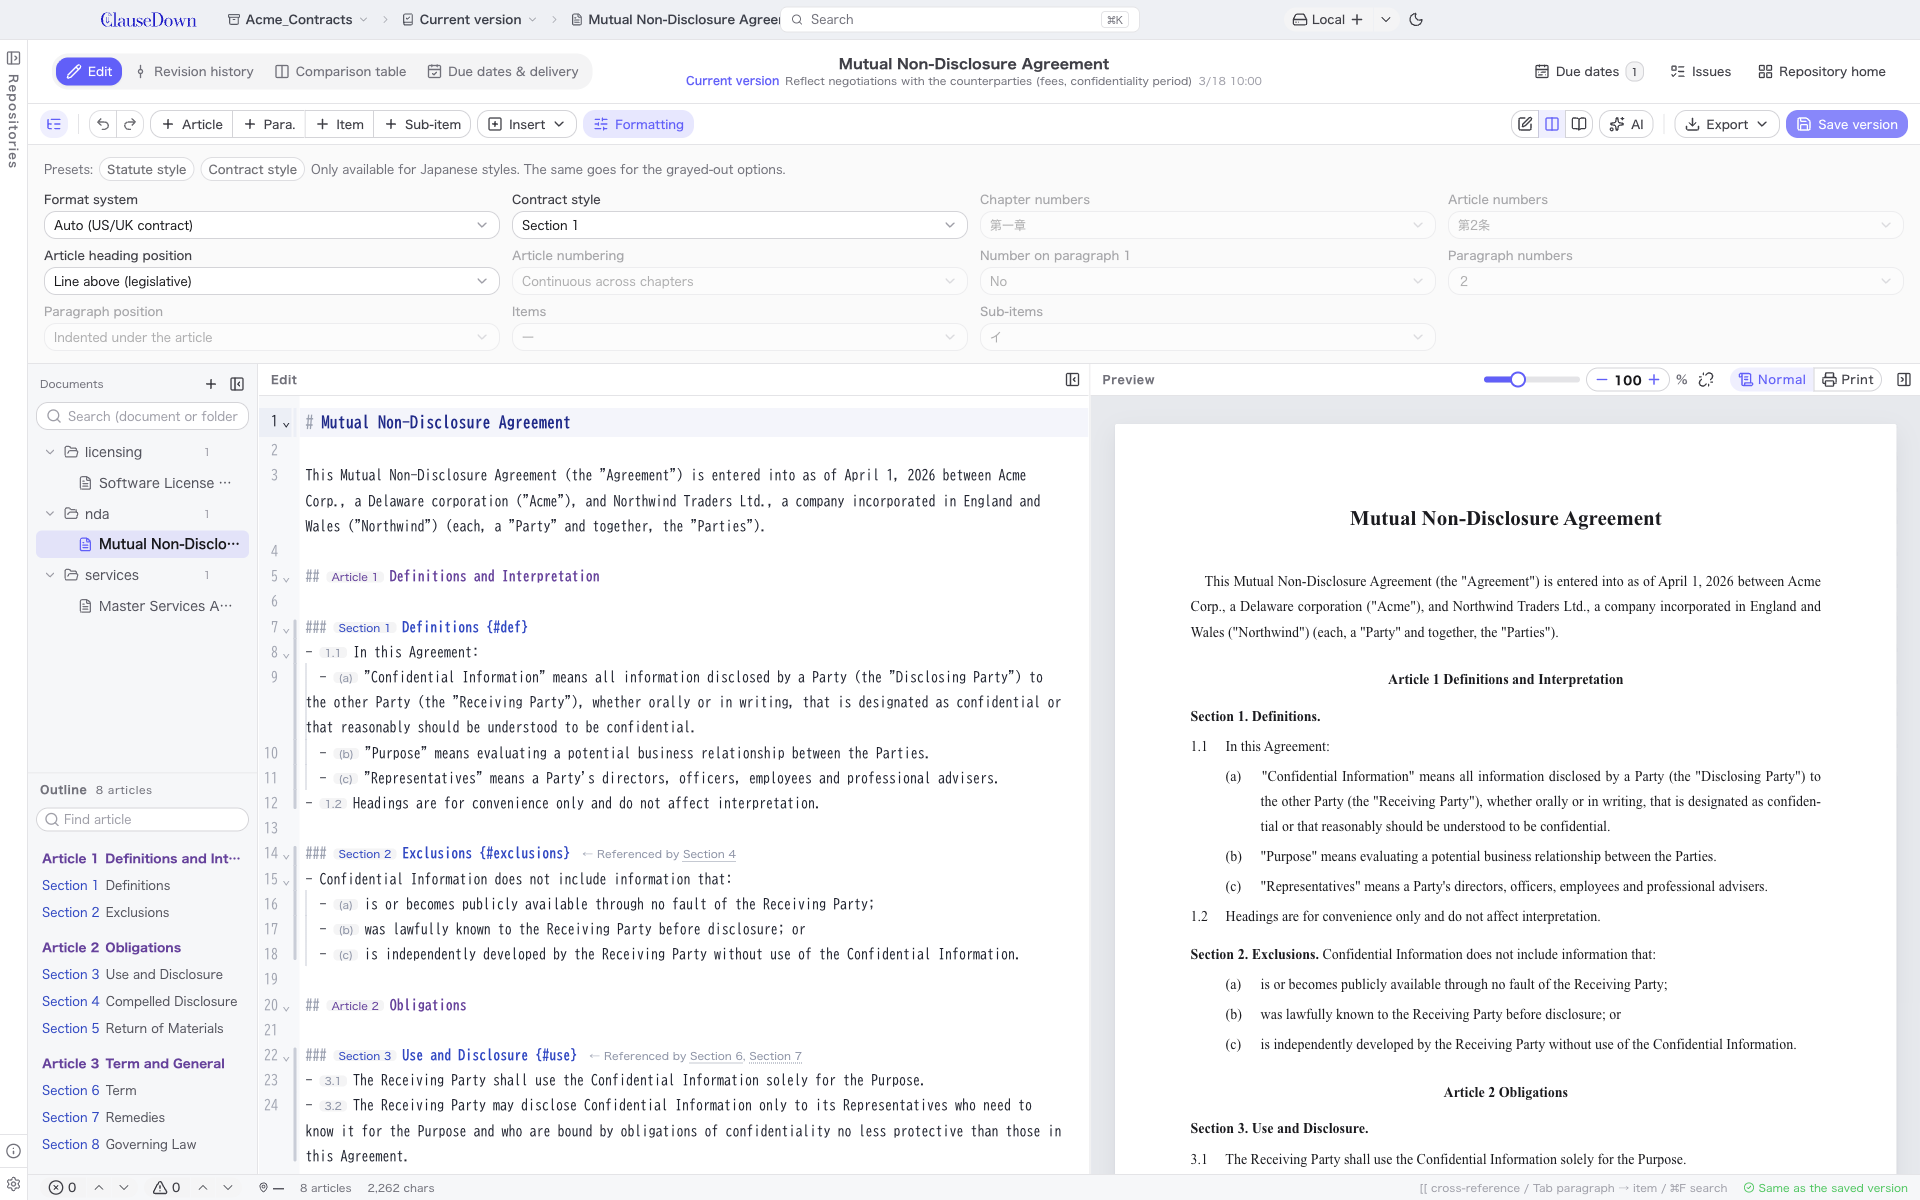
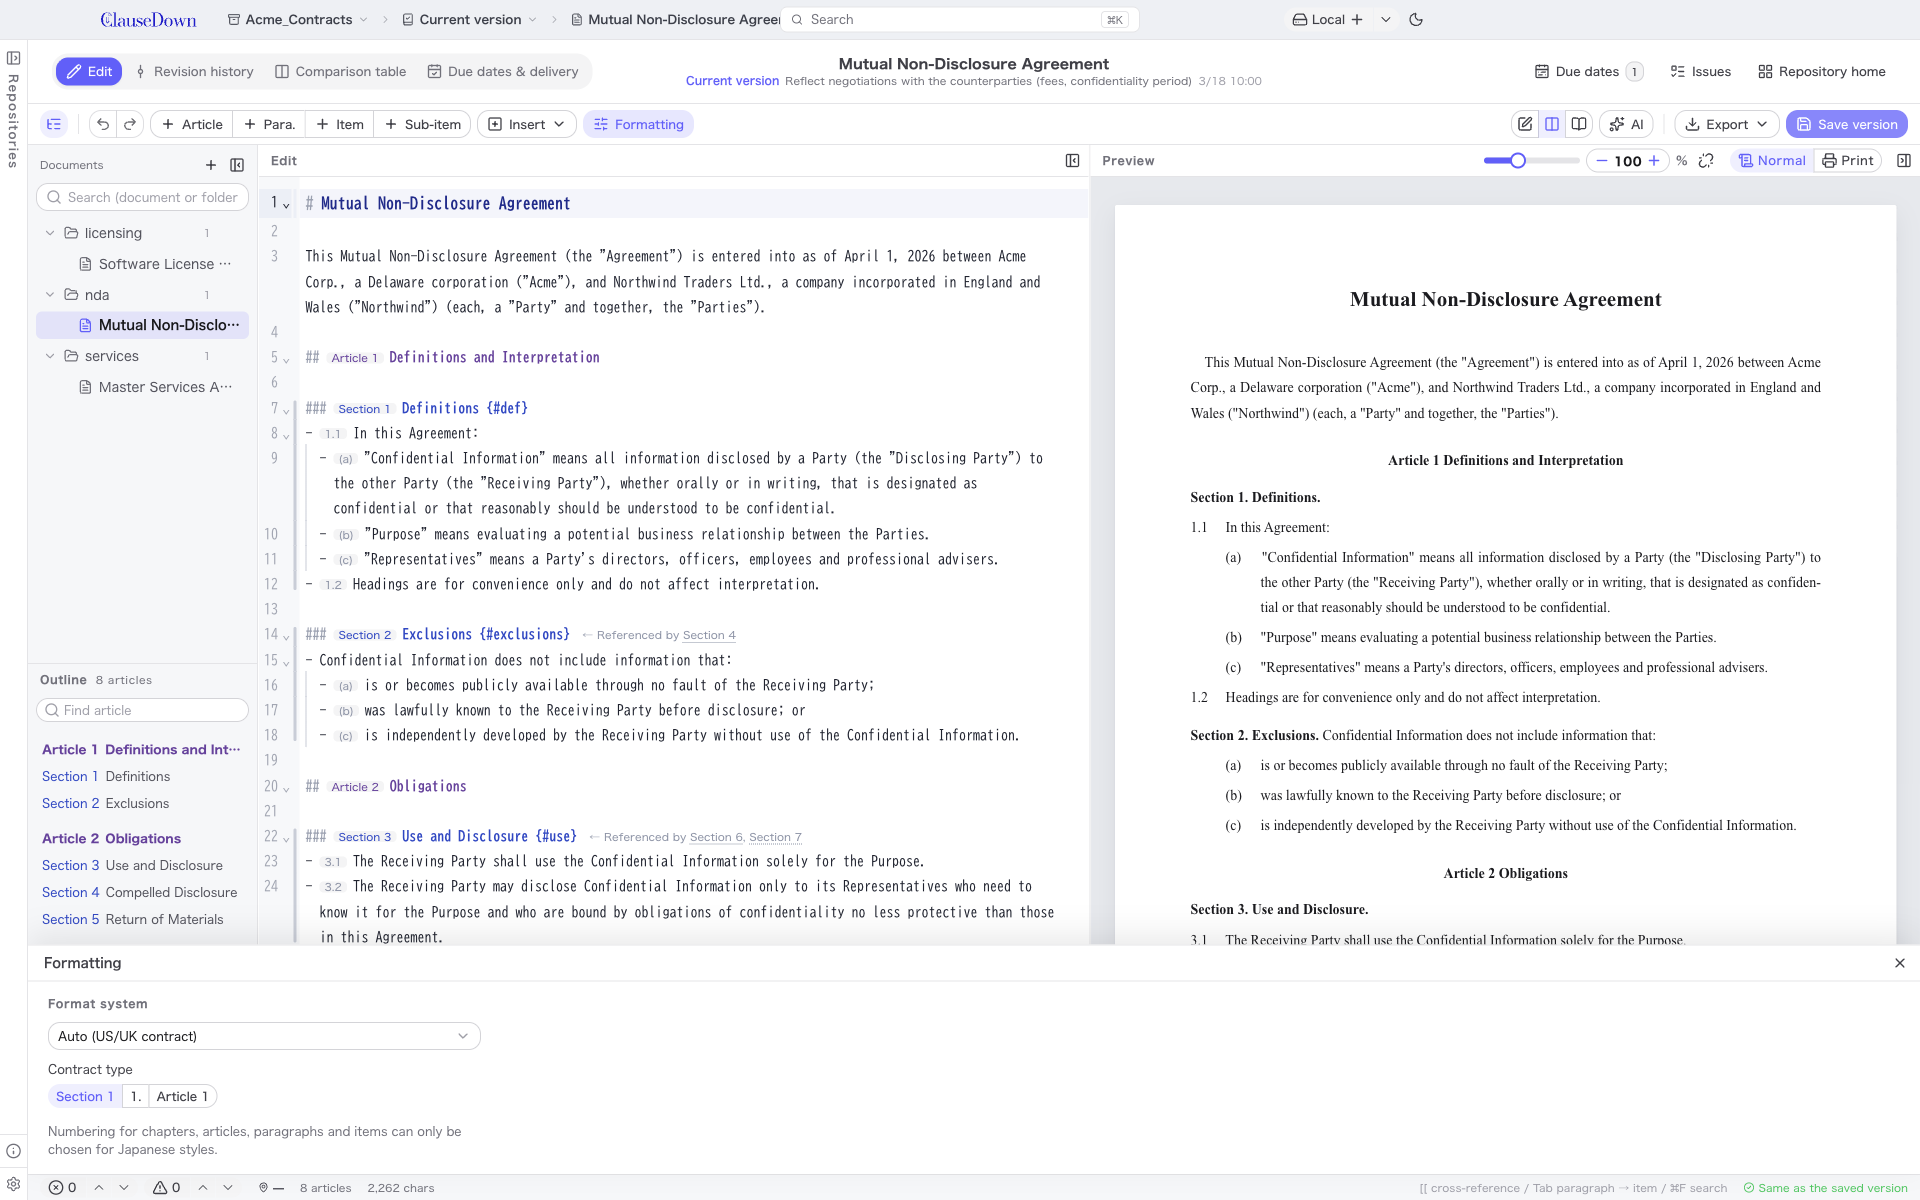
v0.10.1

diff --git a/docs/manual/en/README.md b/docs/manual/en/README.md
@@ -448,9 +448,21 @@ Turn off **Show proofreading (yellow squiggles)** under **Editor** in Settings t
 
 ### Formatting: changing how chapters and paragraphs are numbered
 
-Click **Formatting** to open the numbering options. You can choose the chapter numbering (第一章, 第1章 and so on), the position of article headings (on the line before the article, or after the article number), how paragraph numbers are written, the symbols for items and sub-items, and more. Click **Statute style** or **Contract style** to switch all of these at once. These settings apply only to this document. Use **Line wrapping** to choose where the second and later lines of a paragraph or item start: **Indent by one character (legislative)** indents them one character from the number, and **Align with the text** lines them up with the text after the number. **Contract style** selects **Align with the text**.
+Click **Formatting** to open the formatting sheet below the editor. These settings apply only to this document. To close the sheet, click **×** at the top right or click **Formatting** again.
+
+At the top of the sheet, **Format system** sets how articles are numbered and how cross-references are written (see [Overseas formats](#overseas-formats)). An English document is detected as **US/UK contract**, and the article numbers follow that system (Section 1, 1.1, (a)). With **US/UK contract**, use **Contract type** to choose whether articles are written as `Section 1`, `1.` or `Article 1`.
 
 ![Formatting](images/editor-config.png)
+
+For Japanese documents (the **Japan** format system), the sheet also has columns for choosing how chapters, articles, paragraphs and items are numbered. Choose each option by clicking a sample, such as `第一章`, `第1条` or `（1）`.
+
+- **Presets:** Click the **Statute style** or **Contract style** card to switch all options at once. The card that matches the current settings shows **In use**. If neither matches, the sheet shows **Customized**.
+- **Chapters:** Number (第一章, 第1章 and so on).
+- **Articles:** Number, heading position (on the line before the article, or after the article number) and numbering.
+- **Paragraphs:** First paragraph number, number, position and line wrapping.
+- **Items:** Item marker and sub-item marker.
+
+Use **Line wrapping** to choose where the second and later lines of a paragraph or item start: **Indent by one character (legislative)** indents them one character from the number, and **Align with the text** lines them up with the text after the number. **Contract style** selects **Align with the text**.
 
 #### Overseas formats
 
@@ -469,9 +481,9 @@ ClauseDown is not limited to Japanese documents. Use **Format system** at the to
 
 - The default is **Auto**. If at least 70% of the text is Latin letters and it is longer than 200 characters, the document is treated as **US/UK contract**; otherwise as **Japan**. The field shows the result, for example "Auto (US/UK contract)".
 - German and French documents are also detected as **US/UK contract** in **Auto**. Choose the system yourself.
-- With **US/UK contract**, use **Contract style** to choose whether articles are written as "Section 1", "1." or "Article 1".
+- With **US/UK contract**, use **Contract type** to choose whether articles are written as "Section 1", "1." or "Article 1".
 - Paragraphs are numbered, starting from the first paragraph, only in articles that have two or more paragraphs (the France and internal rules systems do not number paragraphs).
-- In systems other than Japan, the Japan-specific options, such as chapter numerals and item symbols, and the **Statute style** and **Contract style** presets are not used (they are grayed out).
+- In systems other than Japan, the Japan-specific options, such as chapter numerals and item symbols, and the **Statute style** and **Contract style** presets are not used (they are not shown on the sheet).
 - The Markdown syntax is the same for all systems. Cross-references can go to any depth, as in `[[name:2:1:3]]` (article, paragraph, item, sub-item).
 - In documents with an overseas format, the comparison table uses the document's language for its headings and placeholders (see [chapter 9](#9-creating-a-comparison-table)).
 - If you open a document with a chosen format system in ClauseDown 0.8 or earlier, a settings warning appears and the document is shown in the Japanese format. The text itself is not changed.
